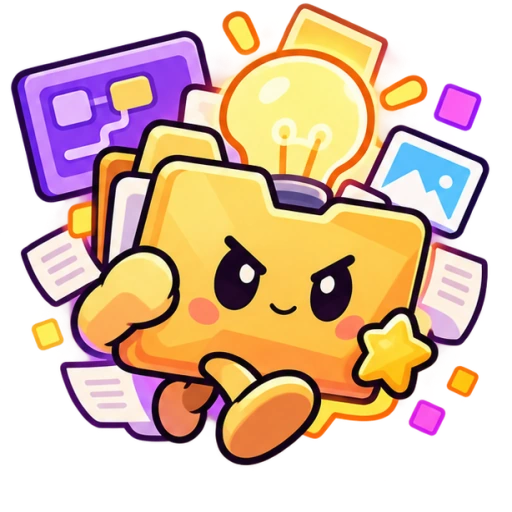
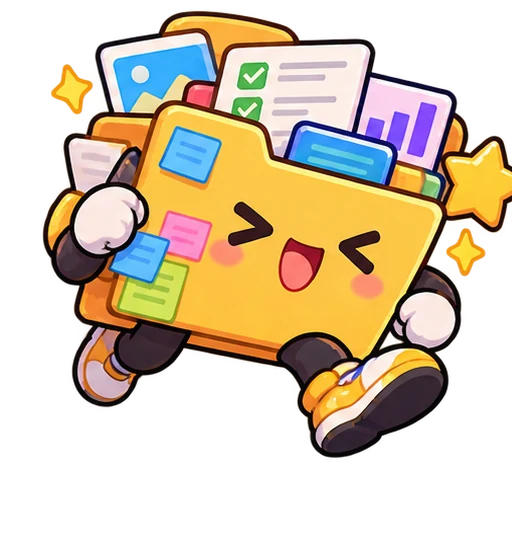
feat: 接入工程师逐帧动画与统一游戏素材

diff --git a/src/presentation/battle-scene.ts b/src/presentation/battle-scene.ts
@@ -7,7 +7,16 @@ import {
   type Engineer,
   type Requirement
 } from "../core/game";
-import { engineerTexture, GAME_ASSETS, GAME_TEXTURES, requestTexture } from "./game-assets";
+import {
+  ENGINEER_ANIMATION_FRAMES,
+  ENGINEER_SPRITE_FRAME_SIZE,
+  engineerAnimationKey,
+  engineerSpriteSheet,
+  GAME_ASSETS,
+  GAME_SPRITESHEETS,
+  GAME_TEXTURES,
+  requestTexture
+} from "./game-assets";
 
 const WIDTH = 1280;
 const HEIGHT = 720;
@@ -15,7 +24,7 @@ const FLOOR_Y = 536;
 const REQUEST_Y = [310, 370, 430] as const;
 
 interface EngineerView {
-  image: Phaser.GameObjects.Image;
+  sprite: Phaser.GameObjects.Sprite;
   shadow: Phaser.GameObjects.Graphics;
   aura: Phaser.GameObjects.Graphics;
   activity: Phaser.GameObjects.Text;
@@ -51,12 +60,21 @@ export class BattleScene extends Phaser.Scene {
     for (const asset of GAME_TEXTURES) {
       if (!this.textures.exists(asset.key)) this.load.image(asset.key, asset.src);
     }
+    for (const sheet of Object.values(GAME_SPRITESHEETS)) {
+      if (!this.textures.exists(sheet.key)) {
+        this.load.spritesheet(sheet.key, sheet.src, {
+          frameWidth: ENGINEER_SPRITE_FRAME_SIZE,
+          frameHeight: ENGINEER_SPRITE_FRAME_SIZE
+        });
+      }
+    }
   }
 
   create(data: { state?: BattleState } = {}): void {
     this.state = data.state ?? this.game.registry.get("battleState") ?? null;
     this.engineers.clear();
     this.requests.clear();
+    this.createEngineerAnimations();
     const era = this.state?.techEra ?? 0;
     const background = GAME_ASSETS.backgrounds[era] ?? GAME_ASSETS.backgrounds[0];
     this.background = this.add.image(WIDTH / 2, HEIGHT / 2, background.key).setDepth(0);
@@ -71,6 +89,26 @@ export class BattleScene extends Phaser.Scene {
     this.lastHudUpdate = 0;
     this.lastEra = era;
     this.telemetryCursor = 0;
+  }
+
+  private createEngineerAnimations(): void {
+    const roles = Object.keys(GAME_SPRITESHEETS) as Array<keyof typeof GAME_SPRITESHEETS>;
+    for (const role of roles) {
+      const texture = engineerSpriteSheet(role);
+      for (const [action, range] of Object.entries(ENGINEER_ANIMATION_FRAMES) as Array<[
+        keyof typeof ENGINEER_ANIMATION_FRAMES,
+        (typeof ENGINEER_ANIMATION_FRAMES)[keyof typeof ENGINEER_ANIMATION_FRAMES]
+      ]>) {
+        const key = engineerAnimationKey(role, action);
+        if (this.anims.exists(key)) continue;
+        this.anims.create({
+          key,
+          frames: this.anims.generateFrameNumbers(texture, { start: range.start, end: range.end }),
+          frameRate: range.frameRate,
+          repeat: -1
+        });
+      }
+    }
   }
 
   update(_time: number, deltaMs: number): void {
@@ -115,12 +153,12 @@ export class BattleScene extends Phaser.Scene {
       present.add(engineer.id);
       let view = this.engineers.get(engineer.id);
       if (!view) {
-        const image = this.add.image(0, FLOOR_Y, engineerTexture(engineer.role)).setOrigin(0.5, 1).setDepth(5);
+        const sprite = this.add.sprite(0, FLOOR_Y, engineerSpriteSheet(engineer.role), 0).setOrigin(0.5, 1).setDepth(5);
         const maxHeight = engineer.role === "agent" ? 132 : 120;
-        const baseScale = Math.min(maxHeight / image.height, 138 / image.width);
-        image.setScale(baseScale);
+        const baseScale = Math.min(maxHeight / sprite.height, 138 / sprite.width);
+        sprite.setScale(baseScale).play(engineerAnimationKey(engineer.role, "idle"));
         view = {
-          image,
+          sprite,
           shadow: this.add.graphics().setDepth(4),
           aura: this.add.graphics().setDepth(4.5),
           activity: this.add.text(0, 0, "</>", {
@@ -135,7 +173,7 @@ export class BattleScene extends Phaser.Scene {
     }
     for (const [id, view] of this.engineers) {
       if (present.has(id)) continue;
-      view.image.destroy();
+      view.sprite.destroy();
       view.shadow.destroy();
       view.aura.destroy();
       view.activity.destroy();
@@ -145,25 +183,24 @@ export class BattleScene extends Phaser.Scene {
 
   private updateEngineerView(view: EngineerView, engineer: Engineer, state: BattleState): void {
     const definition = getEngineerDefinition(engineer.role);
-    const x = engineer.x / WORLD_WIDTH * WIDTH + (engineer.lane - 2) * 34;
+    const x = engineer.x / WORLD_WIDTH * WIDTH + (engineer.lane - 2) * 56;
     const moving = engineer.action === "moving";
     const working = engineer.action === "working";
-    const bob = Math.sin(state.elapsed * (moving ? 12 : 6) + engineer.id) * (moving ? 2.8 : 1.3);
     const target = state.requests.find((request) => request.id === engineer.targetRequestId);
-    view.image.setPosition(x, FLOOR_Y + bob).setFlipX(target ? target.x < engineer.x : false);
-    view.image.setRotation(moving ? Math.sin(state.elapsed * 10 + engineer.id) * 0.035 : 0);
-    const pulse = working ? 1 + Math.sin(state.elapsed * 8 + engineer.id) * 0.012 : 1 + Math.sin(state.elapsed * 3 + engineer.id) * 0.008;
-    view.image.setScale(view.baseScale * pulse);
+    const action = moving ? "run" : working ? "work" : "idle";
+    const animation = engineerAnimationKey(engineer.role, action);
+    if (view.sprite.anims.currentAnim?.key !== animation) view.sprite.play(animation);
+    const hover = engineer.role === "agent" ? Math.sin(state.elapsed * 4 + engineer.id) * 3 : 0;
+    view.sprite.setPosition(x, FLOOR_Y + hover).setFlipX(target ? target.x < engineer.x : false);
 
     view.shadow.clear().fillStyle(0x1b2929, 0.25).fillEllipse(x, FLOOR_Y - 2, 52, 12);
     view.aura.clear();
     if (engineer.role === "agent") {
-      view.aura.fillStyle(0x66d9fa, 0.13).fillEllipse(x, FLOOR_Y - 48 + bob, 78, 92);
-      view.aura.fillStyle(0x9c9bff, 0.2).fillCircle(x + Math.sin(state.elapsed * 2 + engineer.id) * 25, FLOOR_Y - 85 + bob, 2.5);
+      view.aura.fillStyle(0x66d9fa, 0.13).fillEllipse(x, FLOOR_Y - 48 + hover, 78, 92);
+      view.aura.fillStyle(0x9c9bff, 0.2).fillCircle(x + Math.sin(state.elapsed * 2 + engineer.id) * 25, FLOOR_Y - 85 + hover, 2.5);
     }
-    view.activity.setVisible(working).setPosition(x + 3, FLOOR_Y - (engineer.role === "agent" ? 158 : 146) + bob);
-    if (working && engineer.role === "agent") view.activity.setText("AI");
-    else if (working) view.activity.setText("</>");
+    view.activity.setVisible(working).setPosition(x + 3, FLOOR_Y - (engineer.role === "agent" ? 158 : 146) + hover);
+    if (working) view.activity.setText(({ intern: "DOC", frontend: "UI", backend: "API", qa: "✓", agent: "AI" })[engineer.role]);
     view.activity.setColor(engineer.role === "agent" ? "#a9a8ff" : `#${definition.color.toString(16).padStart(6, "0")}`);
   }
 

diff --git a/tests/presentation/game-assets.test.ts b/tests/presentation/game-assets.test.ts
@@ -2,21 +2,35 @@ import assert from "node:assert/strict";
 import { existsSync } from "node:fs";
 import { resolve } from "node:path";
 import test from "node:test";
-import { GAME_ASSETS, GAME_TEXTURES, engineerTexture, requestTexture } from "../../src/presentation/game-assets.ts";
+import {
+  ENGINEER_ANIMATION_FRAMES,
+  ENGINEER_SPRITE_FRAME_SIZE,
+  GAME_ASSETS,
+  GAME_SPRITESHEETS,
+  GAME_TEXTURES,
+  engineerSpriteSheet,
+  requestTexture
+} from "../../src/presentation/game-assets.ts";
 
-test("maps the five engineer roles to distinct images and every mapped asset exists", () => {
+test("maps the five engineer roles to distinct portraits and animated sheets", () => {
   const roles = Object.keys(GAME_ASSETS.characters) as Array<keyof typeof GAME_ASSETS.characters>;
-  const keys = roles.map(engineerTexture);
+  const keys = roles.map(engineerSpriteSheet);
   assert.equal(new Set(keys).size, 5);
+  assert.equal(Object.keys(GAME_SPRITESHEETS).length, 5);
 
   const assets = [
     ...Object.values(GAME_ASSETS.characters),
+    ...Object.values(GAME_SPRITESHEETS),
     ...Object.values(GAME_ASSETS.tasks),
     ...GAME_ASSETS.backgrounds,
     ...Object.values(GAME_ASSETS.icons)
   ];
   for (const asset of assets) assert.ok(existsSync(resolve("public", asset.src.replace(/^\.\//, "").replace(/^\//, ""))), asset.src);
   assert.equal(new Set(GAME_TEXTURES.map((asset) => asset.key)).size, GAME_TEXTURES.length);
+
+  assert.equal(ENGINEER_SPRITE_FRAME_SIZE, 256);
+  assert.deepEqual(Object.values(ENGINEER_ANIMATION_FRAMES).map(({ start, end }) => end - start + 1), [6, 8, 6]);
+  assert.deepEqual(Object.values(ENGINEER_ANIMATION_FRAMES).map(({ start }) => Math.floor(start / 8)), [0, 1, 2]);
 });
 
 test("selects the request mascot from its live type and workload", () => {

diff --git a/src/presentation/game-assets.ts b/src/presentation/game-assets.ts
@@ -30,14 +30,32 @@ export const GAME_ASSETS = {
   }
 } as const;
 
+export const GAME_SPRITESHEETS = {
+  intern: { key: "engineer-sheet-intern", src: asset("assets/game/animations/intern.webp") },
+  frontend: { key: "engineer-sheet-frontend", src: asset("assets/game/animations/frontend.webp") },
+  backend: { key: "engineer-sheet-backend", src: asset("assets/game/animations/backend.webp") },
+  qa: { key: "engineer-sheet-qa", src: asset("assets/game/animations/qa.webp") },
+  agent: { key: "engineer-sheet-agent", src: asset("assets/game/animations/agent.webp") }
+} as const;
+
+export const ENGINEER_SPRITE_FRAME_SIZE = 256;
+export const ENGINEER_ANIMATION_FRAMES = {
+  idle: { start: 0, end: 5, frameRate: 6 },
+  run: { start: 8, end: 15, frameRate: 12 },
+  work: { start: 16, end: 21, frameRate: 8 }
+} as const;
+
 export const GAME_TEXTURES = [
-  ...Object.values(GAME_ASSETS.characters),
   ...Object.values(GAME_ASSETS.tasks),
   ...GAME_ASSETS.backgrounds
 ] as const;
 
-export function engineerTexture(role: EngineerId): string {
-  return GAME_ASSETS.characters[role].key;
+export function engineerSpriteSheet(role: EngineerId): string {
+  return GAME_SPRITESHEETS[role].key;
+}
+
+export function engineerAnimationKey(role: EngineerId, action: keyof typeof ENGINEER_ANIMATION_FRAMES): string {
+  return `${role}-${action}`;
 }
 
 export function requestTexture(request: Pick<Requirement, "kind" | "isFinal" | "totalWork">): string {

diff --git a/ASSETS.md b/ASSETS.md
@@ -1,14 +1,17 @@
 # 游戏素材记录
 
-本项目的角色、需求、时代背景和 HUD 图标来自用户提供的 `game_assets_pack.zip`。源压缩包保存在 `assets-inbox/game_assets_pack.zip`，WebP 裁切与压缩版本保存在 `public/assets/game/`。
+本项目的初版角色、需求与 HUD 图标来自用户提供的 `game_assets_pack.zip`。新版角色方向、需求图集和时代背景来自 `needs_no_sleep_asset_bundle_v3.zip`，源压缩包保存在 `assets-inbox/needs_no_sleep_asset_bundle_v3.zip`。运行时 WebP 位于 `public/assets/game/`。
 
 | 内容 | 游戏资源 | 源文件 |
 | --- | --- | --- |
-| 实习生、前端、后端、测试、AI Agent | `characters/*.webp` | `02`、`01`、`03`、`04`、`05` 角色图 |
-| UI、API、Bug、大型功能需求 | `tasks/*.webp` | `06_task_mascots_sheet.png` 裁切 |
-| 手搓、工程化、Agent 时代背景 | `backgrounds/*.webp` | `07`、`08`、`09` 场景图 |
+| 实习生、前端、测试 | `characters/intern.webp`、`frontend.webp`、`tester.webp` | `assets-inbox/generated-character-art/*.png`，按 v3 角色方向修订的静态立绘 |
+| 后端、AI Agent | `characters/backend.webp`、`ai-agent.webp` | 初版素材包中的 `03_backend_engineer.png`、`05_ai_agent.png` |
+| 五类角色的待机、跑动、工作动作 | `animations/{intern,frontend,backend,qa,agent}.webp` | v3 `02_character_sheets/` 的角色表，每表 6/8/6 帧 |
+| UI、API、大型功能需求 | `tasks/ui-task.webp`、`api-task.webp`、`feature-task.webp` | v3 的 `04_tasks_ui_misc/01_task_characters_sheet.png` 裁切 |
+| Bug 需求 | `tasks/bug-task.webp` | 初版独立透明素材；v3 图集该角色与相邻装饰重叠，保留完整旧裁切 |
+| 手搓、工程化、Agent 时代背景 | `backgrounds/*.webp` | v3 的 `03_backgrounds/01`、`02`、`03` 场景图 |
 | 预算、经验、技术债、稳定度、事件图标 | `icons/*.webp` | `10_ui_icons_sheet.png` 裁切 |
 
-`src/presentation/game-assets.ts` 是 Phaser 和 DOM HUD 共用的资源映射。角色和背景由 Phaser Loader 加载，HUD 图标由 DOM 图片引用。套图裁切保留 alpha 通道；角色和单图图标按长宽比等比缩小，背景按原始 16:9 比例裁切适配 1280×720。资源目前约 1.7 MB（WebP），未将图片编码进代码。
+`src/presentation/game-assets.ts` 是 Phaser 和 DOM HUD 共用的资源映射。Phaser 加载需求、背景及五张角色动画图；DOM 招募卡继续使用独立角色头像。v3 角色表为 8 列 × 3 行、256×256 格，行分别是待机 6 帧、跑动 8 帧、工作 6 帧。处理时裁掉各格 1px 的表格线并补回透明边距，导出为质量 94、保留 alpha 的 WebP；Phaser 将行映射为 Idle / Run / Work 循环，并按游戏中的移动、工作状态切换。需求图集中的 UI、API 和功能形象已裁切，Bug 形象因与相邻装饰重叠而保留初版完整透明图；背景按原始 16:9 比例适配 1280×720。图片仍以独立资源加载，没有编码进代码。
 
 素材包未附独立授权说明，来源为用户提供。项目此前移除了参考仓库中授权无法确认的素材；本次没有复用那些素材。

diff --git a/assets-inbox/README.md b/assets-inbox/README.md
@@ -1,5 +1,5 @@
 # 素材源文件
 
-`game_assets_pack.zip` 是本项目素材接入使用的原始压缩包。它由用户从 `/Users/caiyiwei/Downloads/game_assets_pack.zip` 提供；项目约定的 `assets-inbox/` 路径此前没有该文件，因此将用户明确指定的原包复制到这里留档。
+`game_assets_pack.zip` 是初版素材原包，`needs_no_sleep_asset_bundle_v3.zip` 是本轮视觉升级原包，均由用户提供并保存在此目录留档。
 
-解压与裁切后的 WebP 运行资源位于 `public/assets/game/`，映射和源文件对应关系见仓库根目录 `ASSETS.md`。
+按 v3 角色方向修订的透明角色 PNG 位于 `generated-character-art/`；运行时裁切后的角色逐帧动画、需求和背景 WebP 位于 `public/assets/game/`。资源映射与来源对应关系见仓库根目录 `ASSETS.md`。
